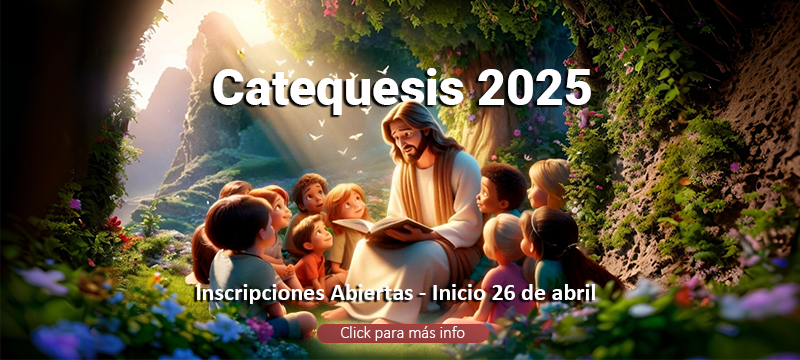
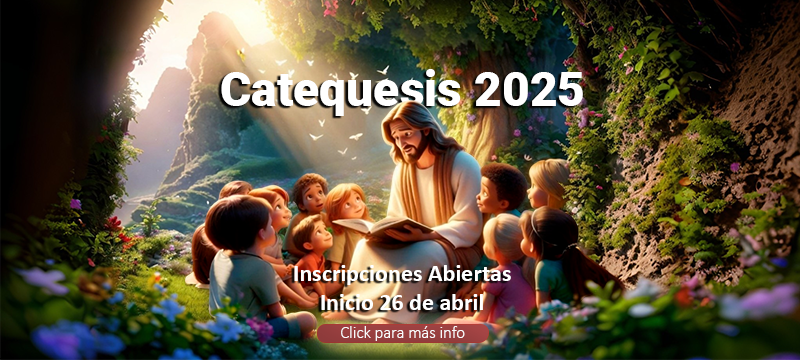
fix carrusel

Changed region(s): [[0.2188, 0.7333, 0.75, 0.8861], [0.25, 0.1833, 0.75, 0.3361]]

diff --git a/index.html b/index.html
@@ -176,7 +176,7 @@
             </div>
             <div class="carousel-item">
                 <img src="img/fotos/banner2.png" class="d-block w-100" alt="Banner 2">
-                <div class="carousel-caption"></div>
+                <div class="carousel-caption">
                     <h5>Misas y Celebraciones</h5>
                     <p>Acompáñanos en nuestras actividades semanales.</p>
                 </div>
@@ -189,6 +189,9 @@
                 </div>
             </div>
             <div class="carousel-item">
+                <img src="img/fotos/banner6.png" class="d-block w-100" alt="Banner 2">
+                <div class="carousel-caption">
+                    <h5>Juntos al encuentro con el Señor</h5>
                     <p>Momentos de oración para el alma.</p>
                 </div>
             </div>
